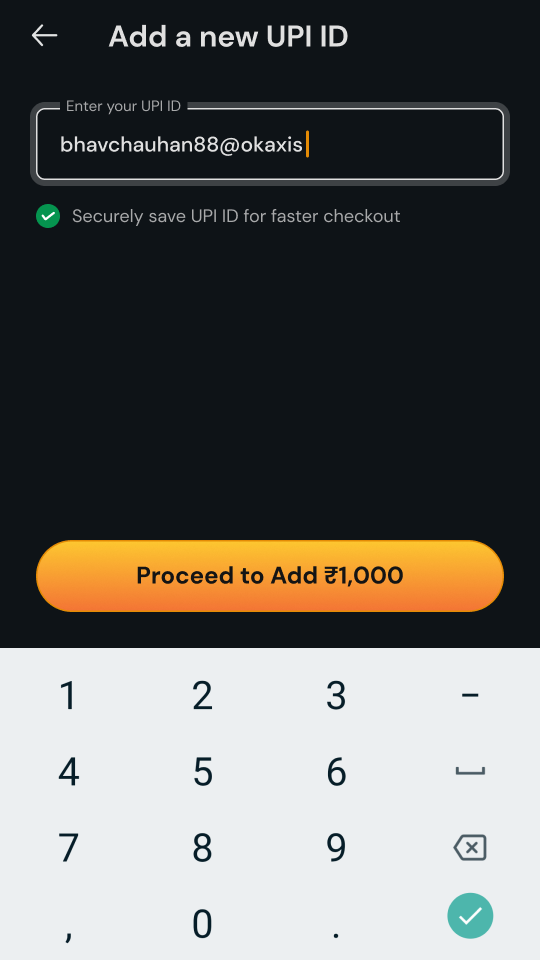
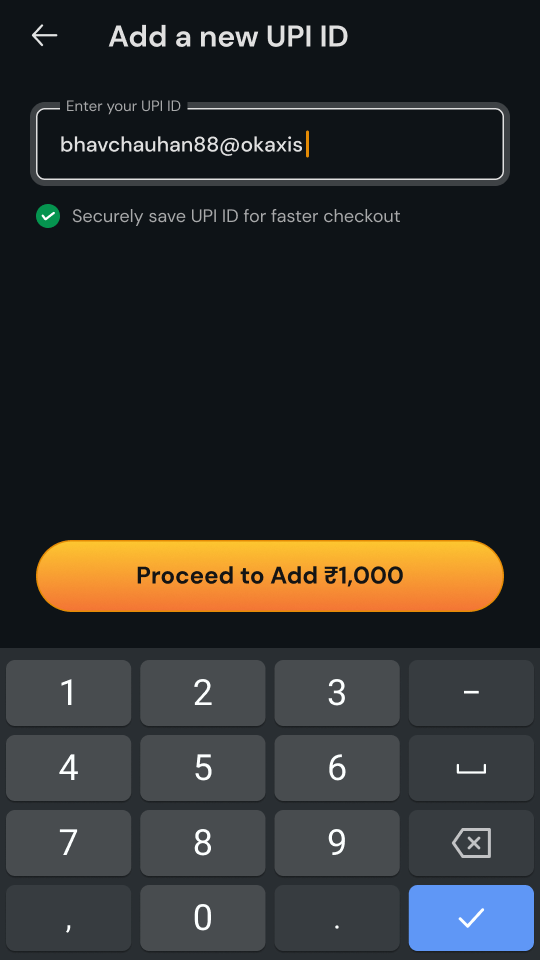
Payments: dark number keypad, matching the dark keyboard
The number pad was a light Android keyboard screenshot. It's now a dark
keypad built in the same style as the dark QWERTY keyboard: same key
tiles, colours, glyphs and blue action key. Cache versions bumped.

diff --git a/projects/add-cash.html b/projects/add-cash.html
@@ -282,7 +282,7 @@ html:not(.js) .reveal{opacity:1;transform:none}
              alt="The payment page listing UPI apps, cards, wallets and net banking.">
         <img class="p3" src="../assets/img/add-cash/upi-selected.png" width="540" height="960" decoding="async"
              alt="Google Pay selected, with an Add ₹1,000 button opened right under it.">
-        <img class="p4" src="../assets/img/add-cash/card-cvv.png" width="540" height="960" decoding="async"
+        <img class="p4" src="../assets/img/add-cash/card-cvv.png?v=2" width="540" height="960" decoding="async"
              alt="A saved Axis card as the preferred payment, asking only for the CVV.">
         <img class="p5" src="../assets/img/add-cash/receipt-ticket.png" width="540" height="960" decoding="async"
              alt="Add Cash successful, with the GST breakdown and a free tournament ticket.">
@@ -493,8 +493,8 @@ html:not(.js) .reveal{opacity:1;transform:none}
     <div class="ac-wide">
       <div class="ac-strip reveal" style="--n:4">
         <figure><img class="ac-shot" src="../assets/img/add-cash/upi-id-entry.png" width="540" height="960" loading="lazy" decoding="async" alt="The payment page with an Add UPI ID option under UPI."><figcaption>+ Add UPI ID</figcaption></figure>
-        <figure><img class="ac-shot" src="../assets/img/add-cash/upi-id-empty.png" width="540" height="960" loading="lazy" decoding="async" alt="Add a new UPI ID, empty, with the keyboard open."><figcaption>Keyboard up</figcaption></figure>
-        <figure><img class="ac-shot" src="../assets/img/add-cash/upi-id-typed.png" width="540" height="960" loading="lazy" decoding="async" alt="A UPI ID typed in, with Securely save UPI ID checked."><figcaption>Typed and saved</figcaption></figure>
+        <figure><img class="ac-shot" src="../assets/img/add-cash/upi-id-empty.png?v=2" width="540" height="960" loading="lazy" decoding="async" alt="Add a new UPI ID, empty, with the keyboard open."><figcaption>Keyboard up</figcaption></figure>
+        <figure><img class="ac-shot" src="../assets/img/add-cash/upi-id-typed.png?v=2" width="540" height="960" loading="lazy" decoding="async" alt="A UPI ID typed in, with Securely save UPI ID checked."><figcaption>Typed and saved</figcaption></figure>
         <figure><img class="ac-shot" src="../assets/img/add-cash/upi-id-ready.png" width="540" height="960" loading="lazy" decoding="async" alt="The UPI ID entered and ready to pay."><figcaption>Ready to pay</figcaption></figure>
       </div>
     </div>
@@ -515,11 +515,11 @@ html:not(.js) .reveal{opacity:1;transform:none}
     </div>
     <div class="ac-wide">
       <div class="ac-strip reveal" style="--n:5;--w:180px">
-        <figure><img class="ac-shot" src="../assets/img/add-cash/card-empty.png" width="540" height="960" loading="lazy" decoding="async" alt="Add a new card, empty, with the numeric keypad open."><figcaption>Empty, keyboard up</figcaption></figure>
-        <figure><img class="ac-shot" src="../assets/img/add-cash/card-detected.png" width="540" height="960" loading="lazy" decoding="async" alt="A card number, expiry and CVV filled in, with the Mastercard logo detected."><figcaption>Network detected</figcaption></figure>
-        <figure><img class="ac-shot" src="../assets/img/add-cash/card-unsupported.png" width="540" height="960" loading="lazy" decoding="async" alt="An error under the card number: Amex and Diners club cards are not supported."><figcaption>A card we can’t take</figcaption></figure>
+        <figure><img class="ac-shot" src="../assets/img/add-cash/card-empty.png?v=2" width="540" height="960" loading="lazy" decoding="async" alt="Add a new card, empty, with the numeric keypad open."><figcaption>Empty, keyboard up</figcaption></figure>
+        <figure><img class="ac-shot" src="../assets/img/add-cash/card-detected.png?v=2" width="540" height="960" loading="lazy" decoding="async" alt="A card number, expiry and CVV filled in, with the Mastercard logo detected."><figcaption>Network detected</figcaption></figure>
+        <figure><img class="ac-shot" src="../assets/img/add-cash/card-unsupported.png?v=2" width="540" height="960" loading="lazy" decoding="async" alt="An error under the card number: Amex and Diners club cards are not supported."><figcaption>A card we can’t take</figcaption></figure>
         <figure><img class="ac-shot" src="../assets/img/add-cash/card-processing.png" width="540" height="960" loading="lazy" decoding="async" alt="The Proceed button showing a loading spinner."><figcaption>Processing</figcaption></figure>
-        <figure><img class="ac-shot" src="../assets/img/add-cash/card-cvv.png" width="540" height="960" loading="lazy" decoding="async" alt="The saved Axis card as preferred payment, asking only for the CVV."><figcaption>Next time, just the CVV</figcaption></figure>
+        <figure><img class="ac-shot" src="../assets/img/add-cash/card-cvv.png?v=2" width="540" height="960" loading="lazy" decoding="async" alt="The saved Axis card as preferred payment, asking only for the CVV."><figcaption>Next time, just the CVV</figcaption></figure>
       </div>
     </div>
 
@@ -539,8 +539,8 @@ html:not(.js) .reveal{opacity:1;transform:none}
     <div class="ac-wide">
       <div class="ac-strip reveal" style="--n:5;--w:180px">
         <figure><img class="ac-shot" src="../assets/img/add-cash/wallet-number.png?v=2" width="540" height="960" loading="lazy" decoding="async" alt="A sheet confirming which phone number the Paytm wallet will be linked to."><figcaption>Which number</figcaption></figure>
-        <figure><img class="ac-shot" src="../assets/img/add-cash/wallet-otp.png" width="540" height="960" loading="lazy" decoding="async" alt="Enter the OTP sent to the phone number, with Verify and Link Wallet."><figcaption>Enter the OTP</figcaption></figure>
-        <figure><img class="ac-shot" src="../assets/img/add-cash/wallet-otp-limit.png" width="540" height="960" loading="lazy" decoding="async" alt="An error under the OTP field: maximum limit exhausted."><figcaption>Too many tries</figcaption></figure>
+        <figure><img class="ac-shot" src="../assets/img/add-cash/wallet-otp.png?v=2" width="540" height="960" loading="lazy" decoding="async" alt="Enter the OTP sent to the phone number, with Verify and Link Wallet."><figcaption>Enter the OTP</figcaption></figure>
+        <figure><img class="ac-shot" src="../assets/img/add-cash/wallet-otp-limit.png?v=2" width="540" height="960" loading="lazy" decoding="async" alt="An error under the OTP field: maximum limit exhausted."><figcaption>Too many tries</figcaption></figure>
         <figure><img class="ac-shot" src="../assets/img/add-cash/wallet-linked.png" width="540" height="960" loading="lazy" decoding="async" alt="The PhonePe Wallet as preferred payment, with the payment from its ₹1,140 balance in progress."><figcaption>Paying from the wallet</figcaption></figure>
         <figure><img class="ac-shot" src="../assets/img/add-cash/wallet-low-balance.png" width="540" height="960" loading="lazy" decoding="async" alt="The PhonePe Wallet with ₹980 and a low balance note, with an Add Remaining ₹20 button."><figcaption>Short by ₹20</figcaption></figure>
       </div>
